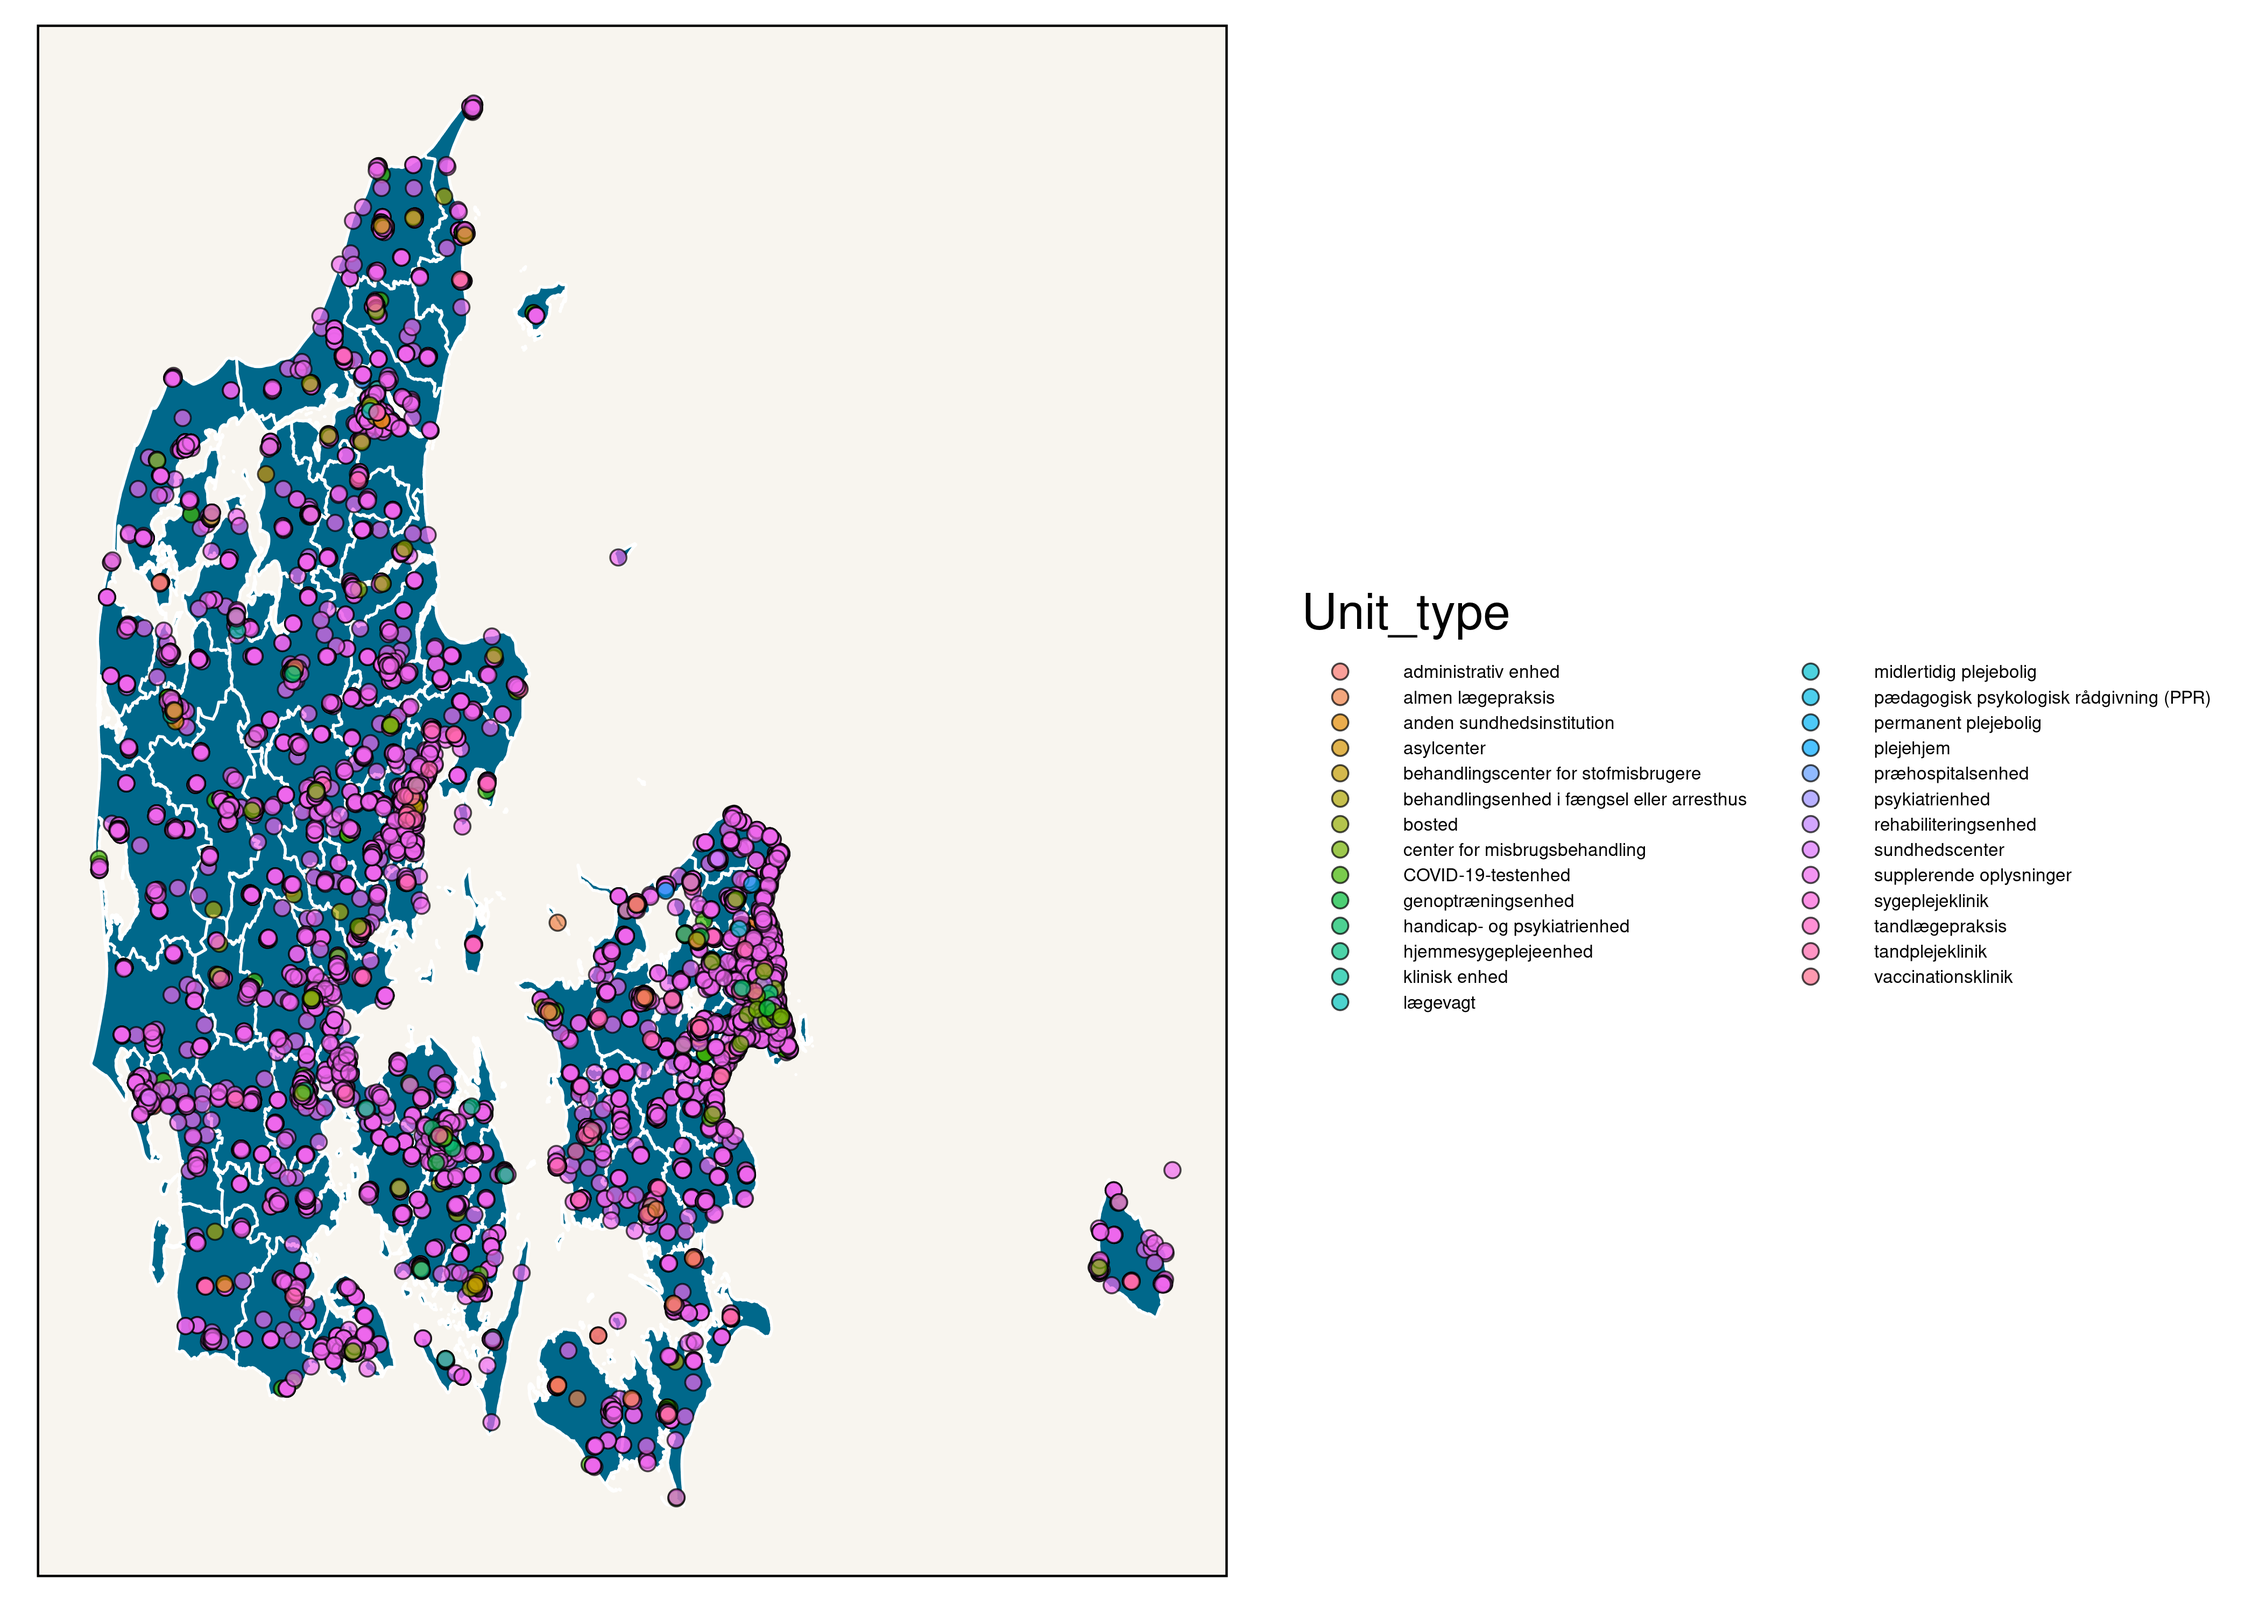
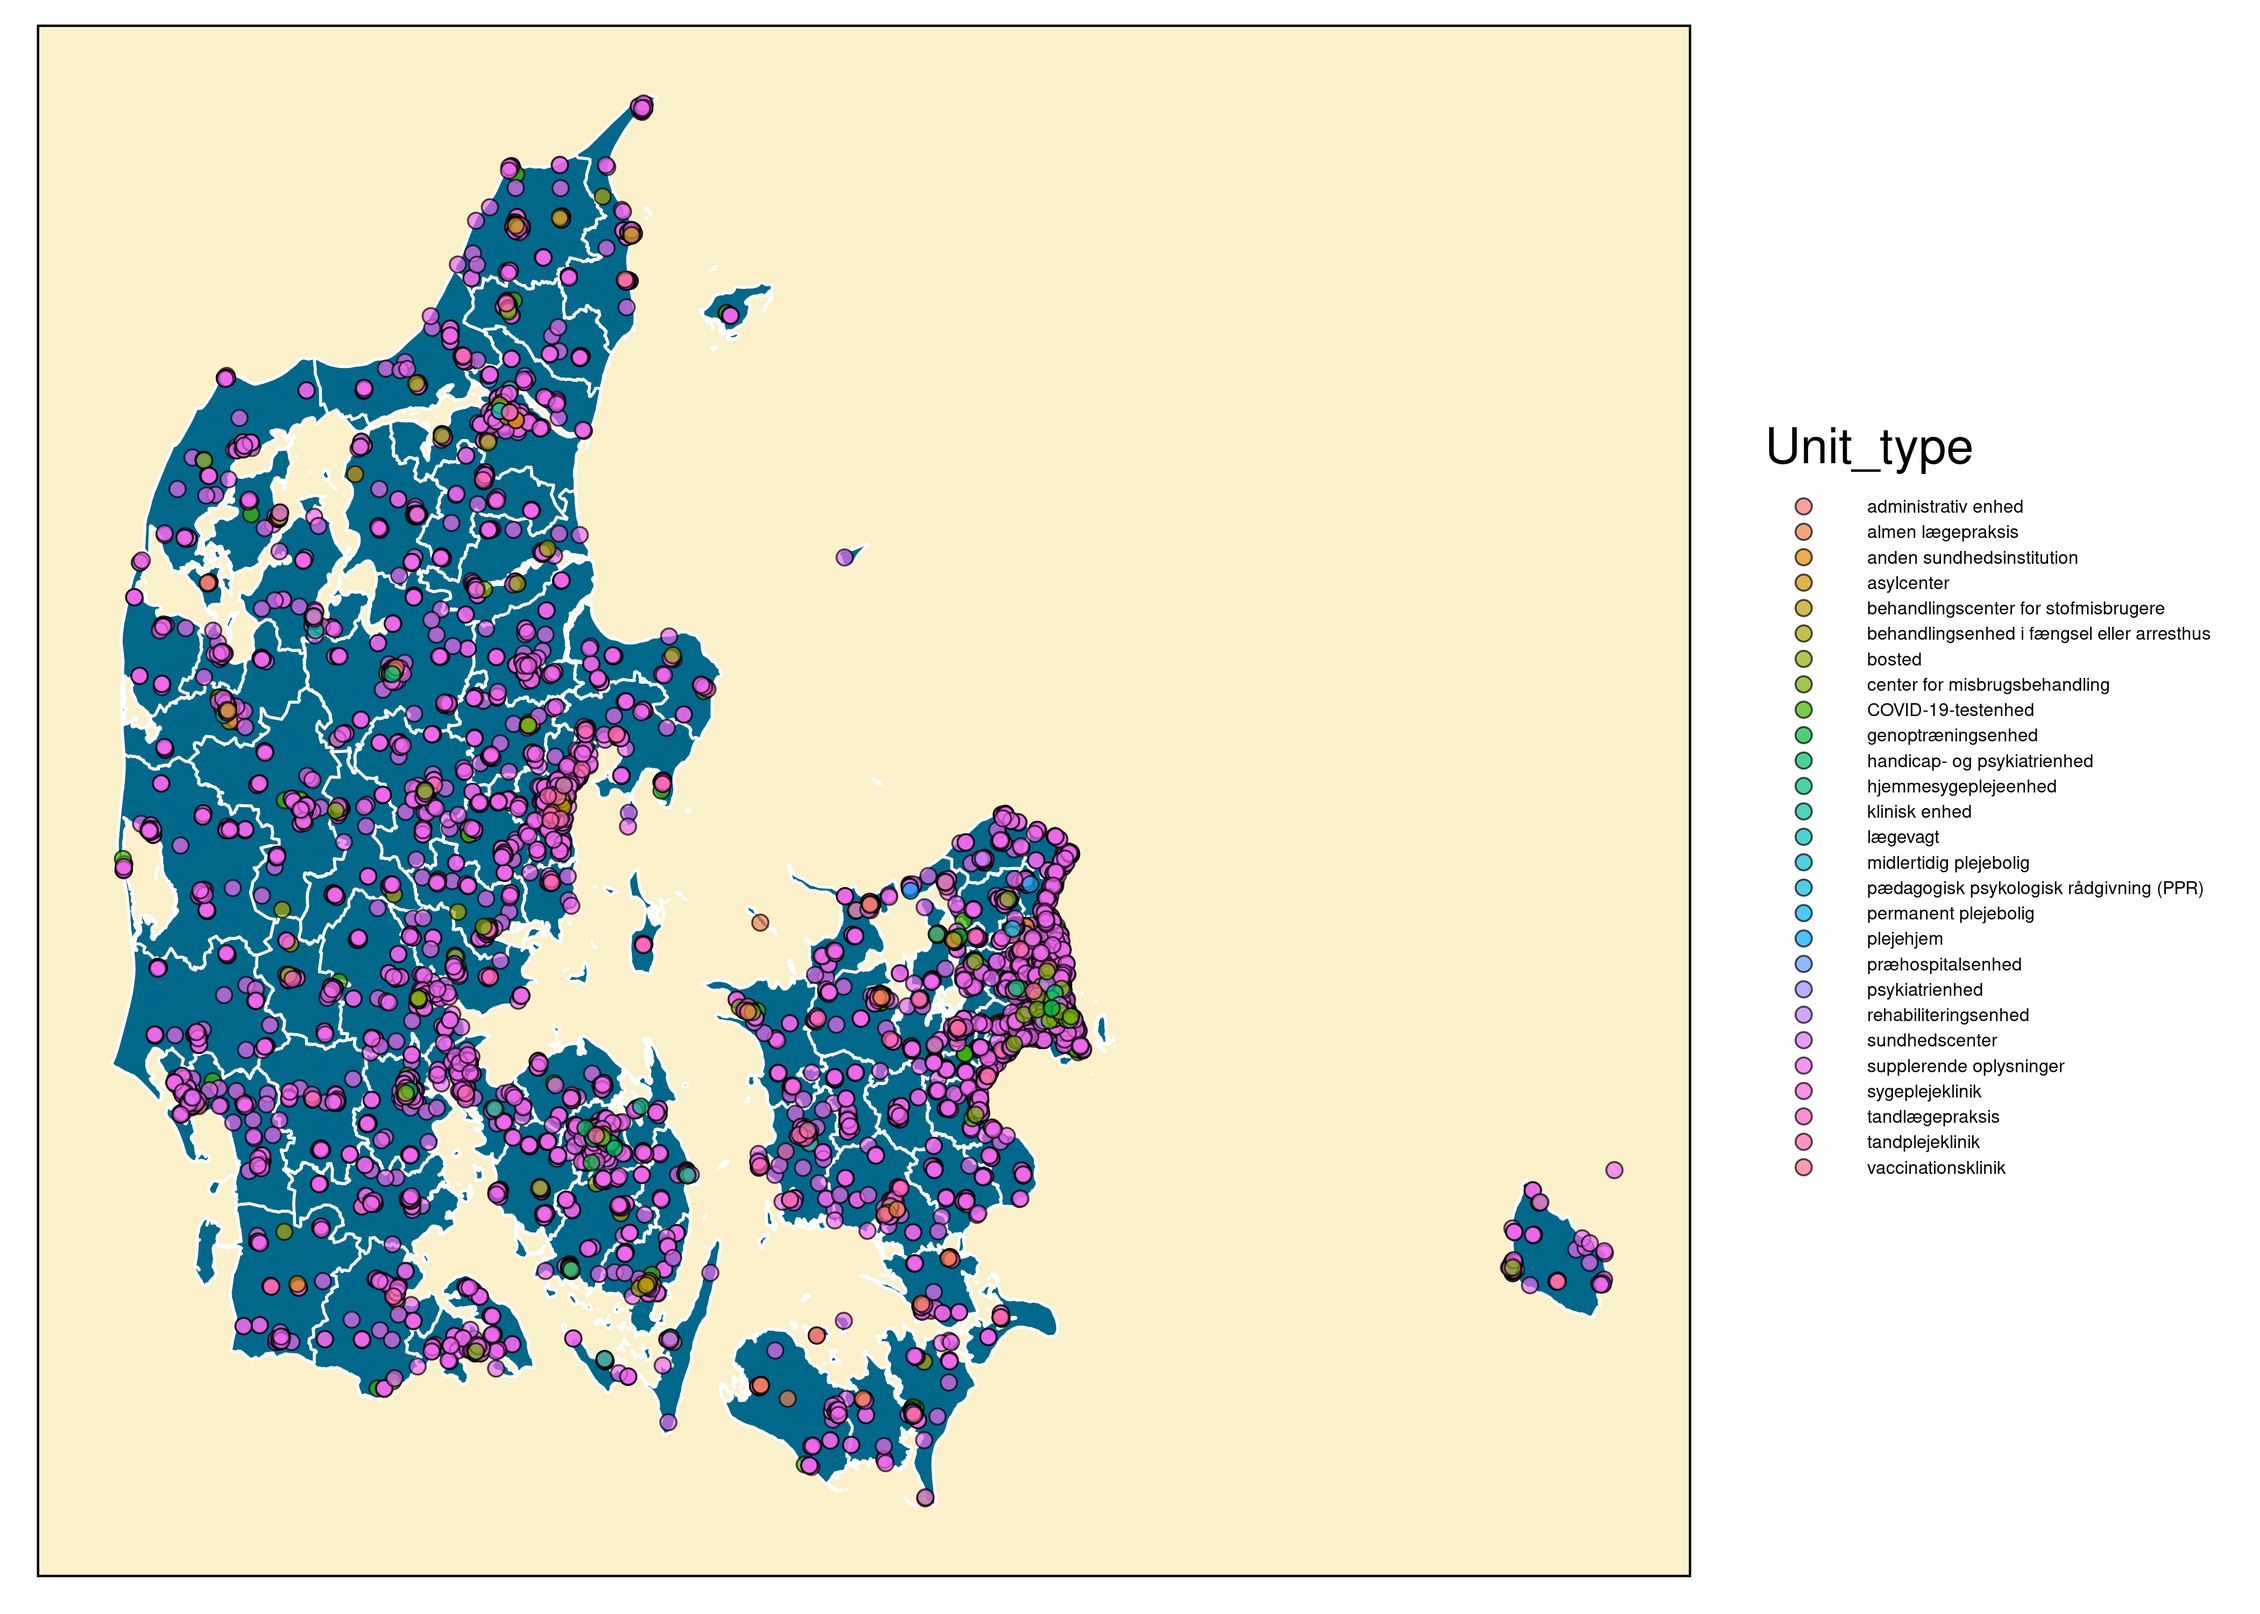
added more plots

diff --git a/readme.md b/readme.md
@@ -57,7 +57,8 @@ have a lot of tools for working with the geometries.
 Some examples of:
 
 1.  Denmark and administrative divisions.
-2.  Different Healthcare institutions.
+2.  Individual level Health institutions
+3.  Aggregated level Health institutions
 
 ### Plots of Denmark:
 
@@ -85,7 +86,7 @@ width="2100" />
 That was it for administrative division, but more can be downloaded from
 DAWA if you want to.
 
-## Plotting healthcare institutions:
+## Individual level healthcare institutions:
 
 First the SHAK codes:
 
@@ -100,4 +101,16 @@ width="2100" />
 And the SOR-codes:
 
 <img src="readme_files/figure-commonmark/unnamed-chunk-9-1.png"
+width="2100" />
+
+<img src="readme_files/figure-commonmark/unnamed-chunk-9-2.png"
+width="2100" />
+
+### Aggregated level Health Institutions:
+
+I only do it for 30 municipalities because the computations are big for
+matching all shak with all areas - but it can be done on the server if
+transferred.
+
+<img src="readme_files/figure-commonmark/unnamed-chunk-10-1.png"
 width="2100" />
